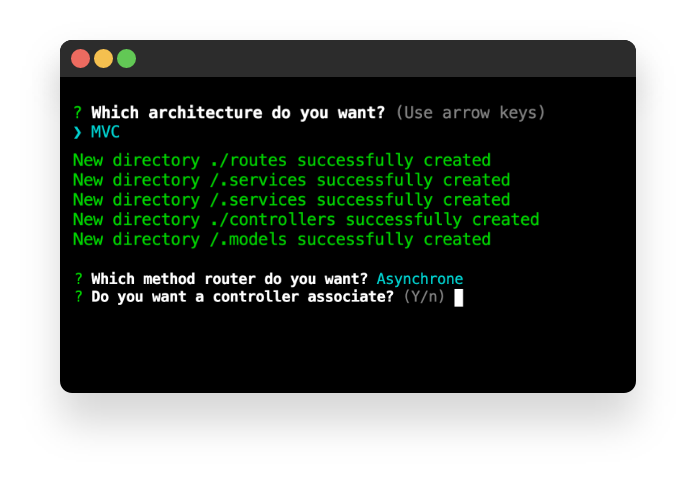
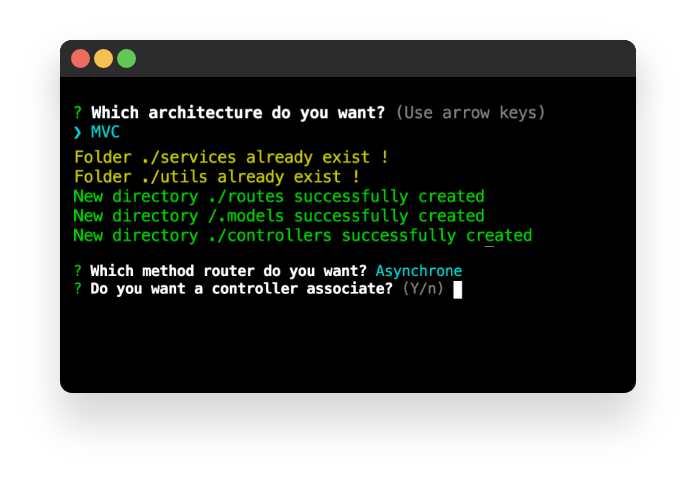
updating pattern and infos

Changed region(s): [[0.0905, 0.3106, 0.7845, 0.6522]]

diff --git a/mvc/init.js b/mvc/init.js
@@ -47,11 +47,11 @@ function generateServiceDirectorie() {
 
 function generateUtilitiesDirectorie() {
   if (fs.existsSync('./utils')) {
-    return console.error(colors.yellow('Folder ./services already exist ! '));
+    return console.error(colors.yellow('Folder ./utils already exist ! '));
   }
   fs.mkdir('./utils', (err) => {
     if (err) console.error(err);
-    console.log(colors.green('New directory /.services successfully created'));
+    console.log(colors.green('New directory /.utils successfully created'));
   });
 }
 
